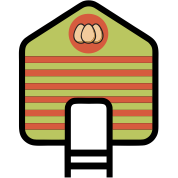
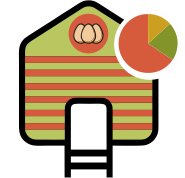
Regular Tasks, Coop Cleaning page set up, including JQuery added to disinfecant checkbox

diff --git a/regular_tasks/templates/regular_tasks/coop_cleaning.html b/regular_tasks/templates/regular_tasks/coop_cleaning.html
@@ -56,8 +56,11 @@
         <div class="col-2 col-css">
             <a href=""><img src="{{ MEDIA_URL }}reports_coop_management.png" alt="Food & water reports icon" class="non-round-icon"></a>
         </div>
-        <div class="col-6 col-css">
+        <div class="col-2 col-css">
             <a href=""><img src="{{ MEDIA_URL }}profile_and_setting.png" alt="settings & profile icon" class="non-round-icon"></a>
+        </div>
+        <div class="col-6 col-css">
+            <a href=""><img src="{{ MEDIA_URL }}coop_manag.png" alt="Coop management icon" class="non-round-icon"></a>
         </div>
     </div>
 </div>
@@ -73,98 +76,19 @@
 
             {% include 'html_includes/date_flock.html' %}
 
-            <div class="bottom-margin">
-                <hr class="hr-large">
+            <div class="row bottom-margin" id="disinfected-row">
+                <div class="col-11 col-css">
+                    <h6 class="col-css-element checkbox-label">Disinfected?</h6>
+                </div>
+                <div class="col-1 col-css col-css-right">
+                    <input type="checkbox" name="disinfected-check" id="disinfected-check" class="col-css-element">
+                </div>
             </div>
 
-            <!-- Feed Section -->
-            <section name="feeds">
-                <div class="container">
-                    <div class="row bottom-margin row-name">
-                        <div class="col-2">
-                            <img src="{{ MEDIA_URL }}reg_task_feed.png" alt="Feed icon" class="non-round-icon">
-                        </div>
-                        <div class="col-10 content-vertical-center">
-                            <h4>Feed</h4>
-                        </div>
-                    </div>
-                    <div class="bottom-margin">
-                        <input type="text" name="feed_name" placeholder="Feed Name" id="feed_name" required>
-                    </div>
-                </div>
-                <div class="container">
-                    <div class="row bottom-margin">
-                        <div class="col-10 col-css">
-                            <input type="number" name="food-amount-remaining" placeholder="Amount of Food Remaining" id="food-amount-remaining" 
-                                step="1" min="0" oninput="this.value = Math.abs(this.value)" required>
-                        </div>
-                        <div class="col-2 col-css">
-                            <h5 class="text-end">
-                                kg
-                            </h5>
-                        </div>
-                    </div>
-                    <div class="row bottom-margin">
-                        <div class="col-10 col-css">
-                            <input type="number" name="food-amount-added" placeholder="Amount of Food Added" id="food-amount-added" 
-                                step="1" min="0" oninput="this.value = Math.abs(this.value)" required>
-                        </div>
-                        <div class="col-2 col-css">
-                            <h5 class="text-end">
-                                kg
-                            </h5>
-                        </div>
-                    </div>
-                </div>
-                <div class="container" name="feeds-container"></div>
-                <div class="add-another-btn-div bottom-margin">
-                    <button href="" type="button" class="button add-another-btn" onclick="addAnotherFeed()">Add Another</button>
-                </div>
-            </section>
-            <div class="bottom-margin">
-                <hr class="hr-large">
+            <div class="bottom-margin checkbox-display-hide-div" name="checkbox-display-hide-div">
+                <input type="text" name="disinfectant_name" placeholder="Disinfectant Name" id="disinfectant_name" required>
             </div>
 
-            <!-- Water Section -->
-            <section name="water">
-                <div class="container">
-                    <div class="row bottom-margin row-name">
-                        <div class="col-2">
-                            <img src="{{ MEDIA_URL }}reg_task_water.png" alt="Water icon" class="non-round-icon">
-                        </div>
-                        <div class="col-10 content-vertical-center">
-                            <h4>Water</h4>
-                        </div>
-                    </div>
-                    <div class="bottom-margin">
-                        <input type="text" name="feed_name" placeholder="Water" id="water" required>
-                    </div>
-                </div>
-                <div class="container">
-                    <div class="row bottom-margin">
-                        <div class="col-10 col-css">
-                            <input type="number" name="water-amount-remaining" placeholder="Amount of Water Remaining" id="water-amount-remaining" 
-                                step="1" min="0" oninput="this.value = Math.abs(this.value)" required>
-                        </div>
-                        <div class="col-2 col-css">
-                            <h5 class="text-end">
-                                lt
-                            </h5>
-                        </div>
-                    </div>
-                    <div class="row bottom-margin">
-                        <div class="col-10 col-css">
-                            <input type="number" name="water-amount-added" placeholder="Amount of Water Added" id="water-amount-added" 
-                                step="1" min="0" oninput="this.value = Math.abs(this.value)" required>
-                        </div>
-                        <div class="col-2 col-css">
-                            <h5 class="text-end">
-                                lt
-                            </h5>
-                        </div>
-                    </div>
-                </div>
-            </section>
             <div class="bottom-margin">
                 <hr class="hr-large">
             </div>

diff --git a/static/js/main.js b/static/js/main.js
@@ -245,3 +245,18 @@ $(document).ready(function() {
         $(this).height(this.scrollHeight);
     });
 });
+
+// Function to display additional fields or content when a checkbpx os checked
+// Taken from http://jsfiddle.net/TrueBlueAussie/DLQY9/1/
+$(function () {
+    $('input[name="disinfectant_name"]').hide();
+
+    //show it when the checkbox is clicked
+    $('input[name="disinfected-check"]').on('click', function () {
+        if ($(this).prop('checked')) {
+            $('input[name="disinfectant_name"]').fadeIn();
+        } else {
+            $('input[name="disinfectant_name"]').hide();
+        }
+    });
+});

diff --git a/static/css/onboarding.css b/static/css/onboarding.css
@@ -36,7 +36,7 @@ label,
     display: none;
 }
 
-/*-- Centres the checkbox vertiocally in the row --*/
+/*-- Centres the checkbox vertically in the row --*/
 .form-data input[type=checkbox] {
     margin-top: 4px;
 }

diff --git a/static/css/regular_tasks.css b/static/css/regular_tasks.css
@@ -16,3 +16,8 @@ body {
 .photos-div-container {
     display: none;
 }
+
+/*-- Centres the checkbox vertically in the row --*/
+.form-data input[type=checkbox] {
+    margin-top: 4px;
+}
